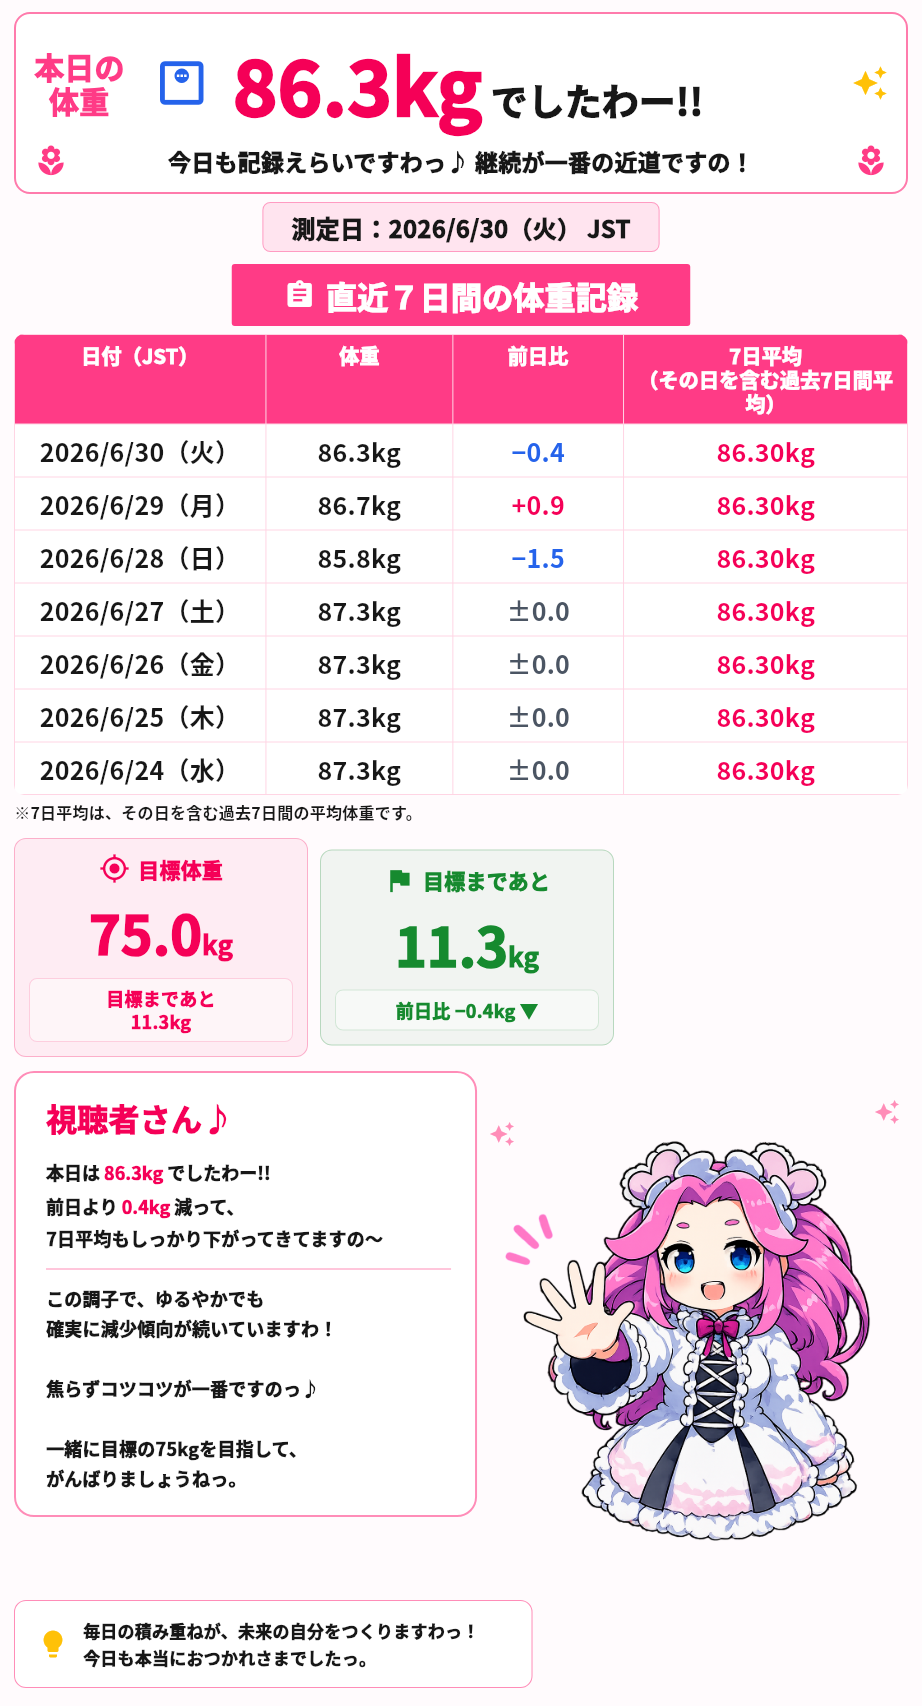
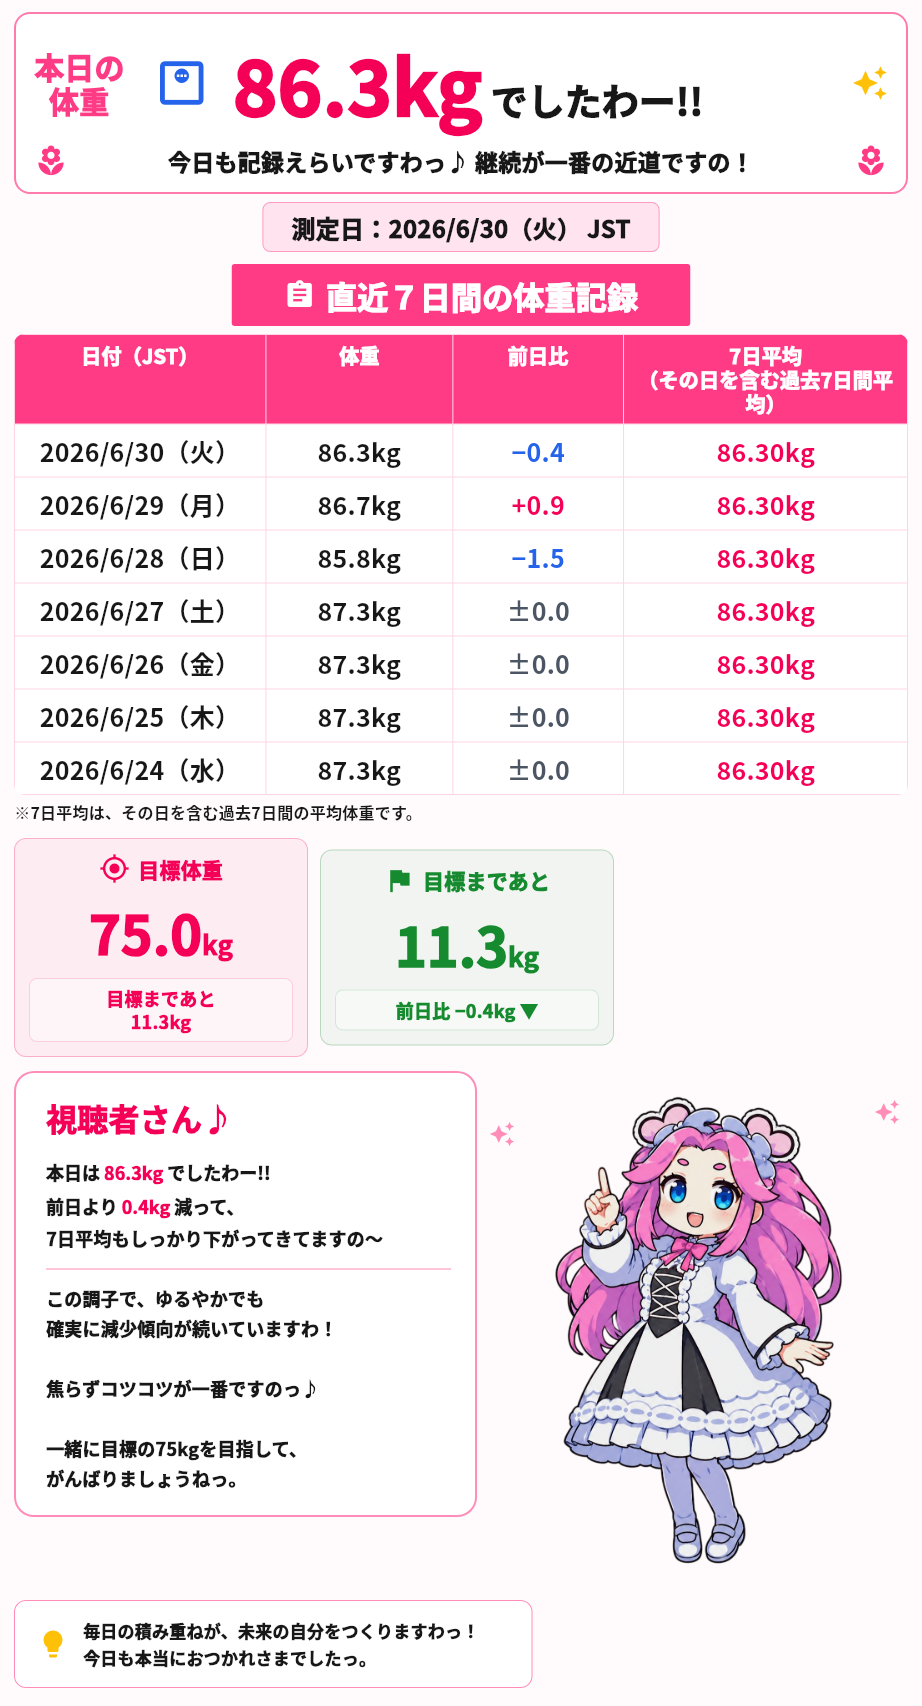
Use report character asset

Changed region(s): [[0.5466, 0.6213, 0.9414, 0.932]]

diff --git a/test/home_screen_golden_test.dart b/test/home_screen_golden_test.dart
@@ -13,6 +13,7 @@ const _fontFamily = 'Noto Sans JP';
 const _requiredImageAssets = <String>[
   'assets/images/character_pointing_input.png',
   'assets/images/character_high_touch.png',
+  'assets/images/character_report.png',
   'assets/images/character_celebration.png',
   'assets/images/cloud_top.png',
   'assets/images/cloud_bottom.png',
@@ -225,7 +226,7 @@ void main() {
     expect(find.bySemanticsLabel('レポート応援キャラクター'), findsOneWidget);
     expect(
       _assetNameForSemanticLabel(tester, 'レポート応援キャラクター'),
-      'assets/images/character_high_touch.png',
+      'assets/images/character_report.png',
     );
     expect(find.text('本日の\n体重'), findsOneWidget);
     expect(find.text('直近７日間の体重記録'), findsOneWidget);

diff --git a/lib/screens/report_screen.dart b/lib/screens/report_screen.dart
@@ -553,7 +553,7 @@ class _CharacterMessageRow extends StatelessWidget {
               Padding(
                 padding: EdgeInsets.only(top: 12 * scale),
                 child: Image.asset(
-                  'assets/images/character_high_touch.png',
+                  'assets/images/character_report.png',
                   semanticLabel: 'レポート応援キャラクター',
                   fit: BoxFit.contain,
                   height: 500 * scale,
